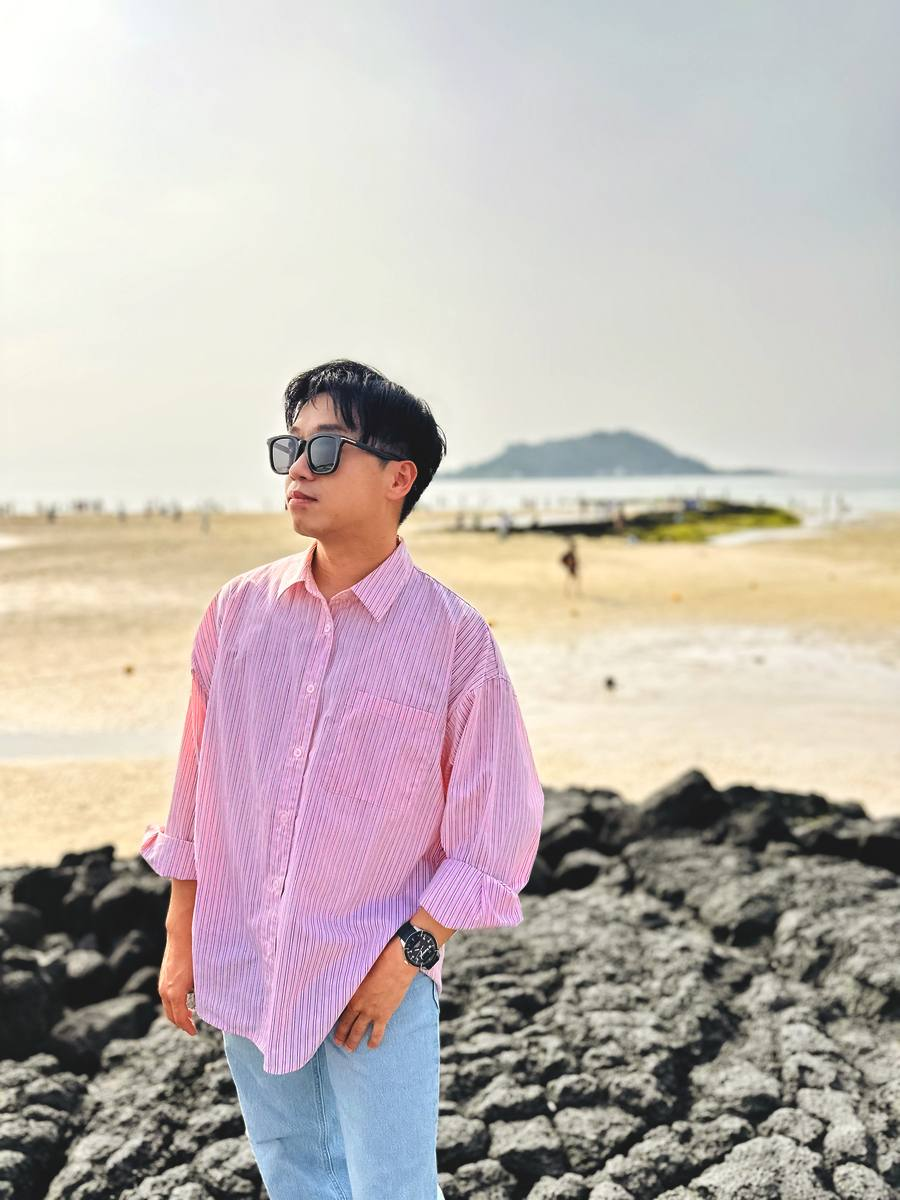
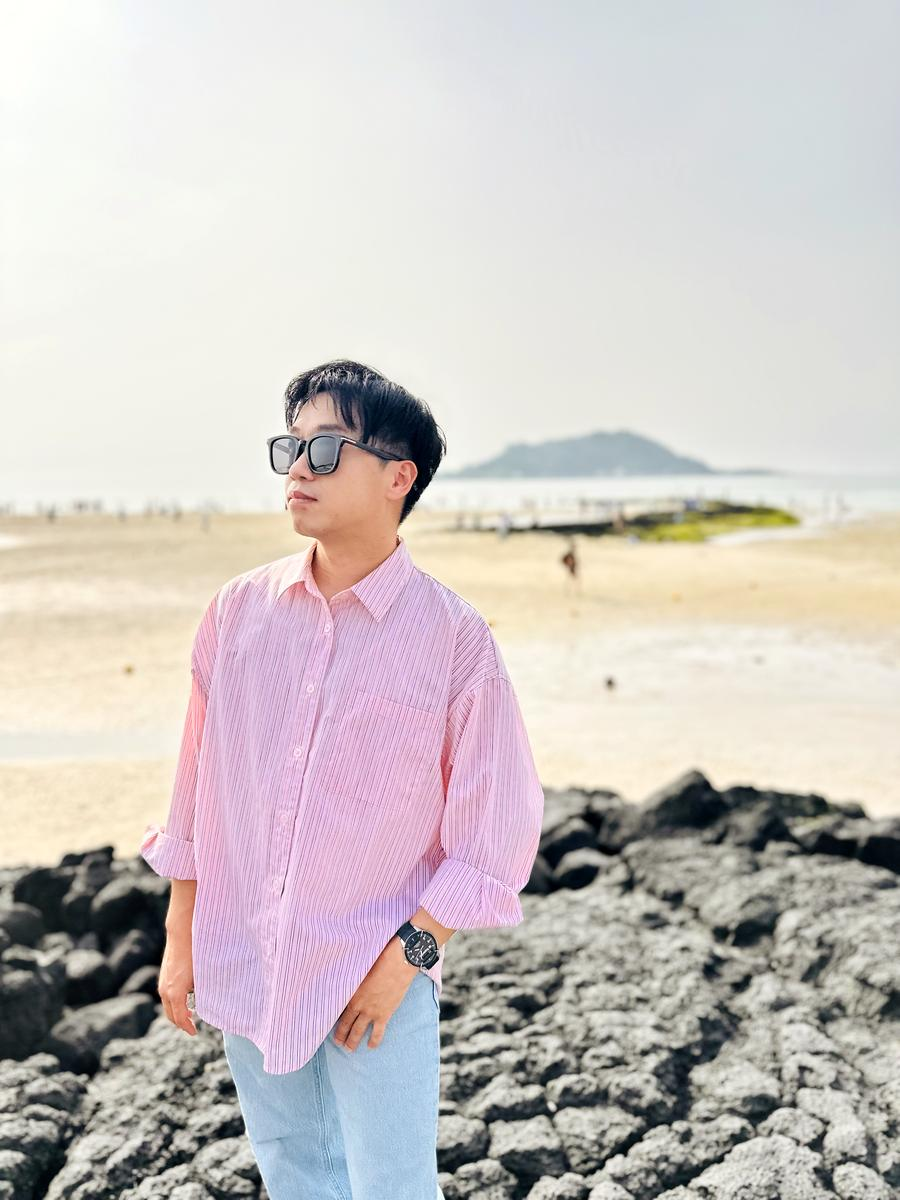
開場改為去背人像合成，調色加濃
去背
  量測參考站主視覺的背景：左上標準差 0.77、右上 0.67、左下 1.22。
  低於 1.3 等同純色；真實棚拍背景會有雜訊與光線衰減，標準差通常 3–15。
  它是去背後合成在暖色底上的，照片沒有攝影背景，才不會與頁面打架。

  以 rembg 的 u2net_human_seg 去背棚拍形象照，
  完全透明 73.1%、半透明 2.2%（邊緣羽化）、主體 24.8%。
  輸出 WebP 61 KB，另附 PNG 備援。

  開場改為左文右人：人像合成於暖色徑向漸層，姓名壓在左下。
  去背後沒有裁切問題，任何螢幕比例都不會切到頭或腳。

  參考站的姓名是白字壓淺米底，對比僅約 1.5:1。這裡改用墨色 #494949，
  對比 4.4:1，一樣柔和但讀得到。

調色太白
  根因是早期版本強推中位亮度到 158。那是參考站白棚高調的結果，
  戶外照套上去必然發白，加上柔光疊加又抬一次高光。

  改為保留原檔曝光，只抬黑、收飽和、極輕柔光。
  三段強度預設寫進 tools/grade.py，站上用 B_中：
  黑點 16、白點 251、飽和 0.170、柔光 0.05、曝光 0.96。
  實測飽和度回到 0.112–0.193，先前為 0.045–0.120。

UCI 會場照回到關於頁側記的橫幅位置。

Changed region(s): [[0.0, 0.2775, 1.0, 1.0], [0.6533, 0.555, 0.6844, 0.5858], [0.1244, 0.555, 0.1556, 0.5858]]

diff --git a/assets/style.css b/assets/style.css
@@ -124,52 +124,47 @@ body.menu-open .menu-list a:nth-child(7){transition-delay:.46s}
 .menu-side a:hover{color:var(--ink)}
 @media (max-width:760px){.menu-in{grid-template-columns:1fr}.menu-side{text-align:left;margin-top:2rem}}
 
-/* ---------- 全幅開場：單張橫幅，姓名壓在左下 ---------- */
-.hero{position:relative;min-height:100svh;overflow:hidden;background:#2E3033}
-.hero-img{
-  position:absolute;inset:0;width:100%;height:100%;
-  object-fit:cover;object-position:64% 44%;
+/* ---------- 全幅開場：去背人像合成於暖色底 ---------- */
+/* 參考站的主視覺量測後背景標準差僅 0.67–1.22，等同純色，
+   是去背後合成的。照片沒有攝影背景，才不會與頁面打架。 */
+.hero{
+  position:relative;min-height:100svh;overflow:hidden;
+  background:
+    radial-gradient(120% 90% at 78% 18%, #EFE9E1 0%, #E4DCD2 46%, #DAD1C6 100%);
+  display:grid;grid-template-columns:1fr minmax(0,46%);align-items:end;
 }
-/* 由左往右淡出的暗色遮罩。左側各區亮度 126–178、標準差 51–75，
-   沒有一塊均勻，沒有遮罩白字會斷續。加上後白字對比 5.0–7.1:1。 */
-.hero::after{
-  content:"";position:absolute;inset:0;pointer-events:none;
-  background:linear-gradient(100deg,
-    rgba(26,28,31,.62) 0%, rgba(26,28,31,.40) 34%,
-    rgba(26,28,31,.12) 62%, rgba(26,28,31,0) 88%);
+.hero-figure{
+  grid-column:2;justify-self:center;align-self:end;
+  height:min(88svh,1000px);display:flex;align-items:flex-end;
 }
+.hero-figure img{height:100%;width:auto;max-width:100%;object-fit:contain;object-position:bottom}
 .hero-inner{
-  position:relative;z-index:2;min-height:100svh;display:flex;flex-direction:column;
-  justify-content:flex-end;padding:0 var(--pad) clamp(4rem,14vh,8rem);
-  max-width:var(--maxw);margin:0 auto;
+  grid-column:1;grid-row:1;z-index:2;align-self:end;
+  padding:0 clamp(1.2rem,3vw,2rem) clamp(4.5rem,16vh,9rem) var(--pad);
 }
 .hero-name{
-  font-family:var(--f-display);font-size:clamp(2.1rem,6vw,4.2rem);font-weight:400;
-  letter-spacing:.26em;line-height:1.25;margin:0;text-transform:uppercase;color:#fff;
+  font-family:var(--f-display);font-size:clamp(1.9rem,5.4vw,3.8rem);font-weight:400;
+  letter-spacing:.26em;line-height:1.25;margin:0;text-transform:uppercase;color:var(--ink);
 }
-.hero-zh{font-size:clamp(1rem,2.2vw,1.45rem);letter-spacing:.5em;color:rgba(255,255,255,.94);margin-top:1.1rem}
+.hero-zh{font-size:clamp(1rem,2.1vw,1.4rem);letter-spacing:.5em;color:var(--ink);margin-top:1rem}
 .hero-role{
-  font-size:12px;letter-spacing:.26em;color:rgba(255,255,255,.78);margin-top:2rem;
+  font-size:12px;letter-spacing:.24em;color:var(--ink-muted);margin-top:1.9rem;
   text-transform:uppercase;line-height:2.4;
 }
-.hero-cap{
-  position:absolute;right:var(--pad);bottom:clamp(1.4rem,4vh,2.4rem);z-index:2;
-  font-family:var(--f-display);font-size:10px;letter-spacing:.24em;
-  color:rgba(255,255,255,.62);text-transform:uppercase;text-align:right;
-}
 .hero-scroll{
-  position:absolute;left:var(--pad);bottom:clamp(1.4rem,4vh,2.4rem);transform:none;z-index:3;
-  font-size:10px;letter-spacing:.3em;color:rgba(255,255,255,.7);text-transform:uppercase;
+  position:absolute;left:var(--pad);bottom:clamp(1.4rem,4vh,2.4rem);z-index:3;
+  font-size:10px;letter-spacing:.3em;color:var(--ink-muted);text-transform:uppercase;
   display:flex;align-items:center;gap:.9rem;
 }
-.hero-scroll::after{content:"";width:46px;height:1px;background:rgba(255,255,255,.55);
+.hero-scroll::after{content:"";width:46px;height:1px;background:var(--ink-muted);opacity:.6;
   animation:sweep 2.6s cubic-bezier(.6,0,.2,1) infinite}
 @keyframes sweep{0%{transform:scaleX(0);transform-origin:left}45%{transform:scaleX(1);transform-origin:left}
                  55%{transform:scaleX(1);transform-origin:right}100%{transform:scaleX(0);transform-origin:right}}
-@media (max-width:760px){
-  .hero-img{object-position:66% 42%}
-  .hero-inner{padding-bottom:clamp(5rem,18vh,7rem)}
-  .hero-cap{display:none}
+@media (max-width:820px){
+  .hero{grid-template-columns:1fr;align-items:end;min-height:100svh}
+  .hero-figure{grid-column:1;grid-row:1;height:min(62svh,640px);justify-self:end;opacity:.92}
+  .hero-inner{grid-row:1;padding-bottom:clamp(5rem,17vh,8rem)}
+  .hero-name{font-size:clamp(1.8rem,9vw,2.6rem)}
 }
 
 /* 關於頁的側身形象照 */

diff --git a/about.html b/about.html
@@ -120,12 +120,16 @@
 <section>
   <div class="wrap">
     <div class="sec-head rise"><h2>Gallery<span class="zh">側記</span></h2></div>
+    <figure class="gallery-lead rise">
+      <img src="assets/gallery-lead.jpg" alt="ISLS 2026 年會會場，加州大學爾灣分校" width="1500" height="1125" loading="lazy">
+      <figcaption>ISLS Annual Meeting 2026 · UC Irvine</figcaption>
+    </figure>
     <div class="gallery rise">
       <figure><img src="assets/gallery-1.jpg" alt="海邊" width="900" height="1200" loading="lazy"></figure>
       <figure><img src="assets/gallery-2.jpg" alt="遮陽傘下" width="900" height="1200" loading="lazy"></figure>
       <figure><img src="assets/gallery-3.jpg" alt="街角" width="900" height="1200" loading="lazy"></figure>
     </div>
-    <p class="gallery-note rise">研究以外的時間。走走看看，換個地方想事情。</p>
+    <p class="gallery-note rise">上圖是 ISLS 年會的會場。下面三張是研究以外的時間。</p>
   </div>
 </section>
 

diff --git a/index.html b/index.html
@@ -41,7 +41,12 @@
 
 <main>
 <section class="hero">
-  <img class="hero-img" src="assets/hero.jpg" alt="陳奕安於 ISLS 2026 年會會場，加州大學爾灣分校" width="2000" height="1500">
+  <div class="hero-figure">
+    <picture>
+      <source srcset="assets/hero-cutout.webp" type="image/webp">
+      <img src="assets/hero-cutout.png" alt="陳奕安" width="515" height="1150">
+    </picture>
+  </div>
   <div class="hero-inner">
     <h1 class="hero-name">Chen Yi-An</h1>
     <p class="hero-zh">陳奕安</p>
@@ -52,7 +57,6 @@
     </p>
   </div>
   <div class="hero-scroll">Scroll</div>
-  <div class="hero-cap">ISLS Annual Meeting 2026<br>UC Irvine</div>
 </section>
 
 <section>

diff --git a/tools/grade.py b/tools/grade.py
@@ -1,112 +1,78 @@
 #!/usr/bin/env python3
 # -*- coding: utf-8 -*-
 """
-日系霧面高調調色。
+日式調色，可調強度。
 
-參數由 saitokyoko.jp 三張照片實測反推：
-  黑點（1% 亮度）51–75、白點（99%）約 246、平均飽和度 0.078–0.100、中間調偏亮。
-
-固定一組數值套在起點差很多的原檔上會失準，所以每張先正規化再對齊目標：
-  1 自動色階：把 0.5% 與 99.5% 拉到兩端，讓所有原檔從同一基準出發
-  2 以 gamma 把中位亮度推到目標
-  3 抬黑壓白到 52 / 247
-  4 用二分法解出飽和倍率，讓平均飽和度落在 0.090
-  5 中間調微暖、極輕柔光
+與前一版的差別：不再強迫中位亮度對齊固定值。
+參考站那些照片本來就是白棚高調，把戶外照推到同樣的亮度只會發白。
+這版保留原檔的曝光，只做三件事：抬一點黑、收一點飽和、極輕的柔光。
 """
-import sys, os
 import numpy as np
 from PIL import Image, ImageFilter
 
-T_BLACK  = 52 / 255.0
-T_WHITE  = 247 / 255.0
-T_MEDIAN = 0.70      # 目標中位亮度（0–1），對應 179/255
-T_SAT    = 0.090     # 目標平均飽和度
-WARM     = 0.020
-BLOOM    = 0.10
 LUMW = np.array([0.2126, 0.7152, 0.0722])
+
+PRESETS = {
+    # 名稱:  黑點  白點  飽和   柔光  曝光微調
+    'A_弱': dict(black=10, white=252, sat=0.200, bloom=0.03, lift=1.00),
+    'B_中': dict(black=16, white=251, sat=0.170, bloom=0.05, lift=0.96),
+    'C_強': dict(black=24, white=250, sat=0.145, bloom=0.08, lift=0.92),
+}
 
 def sat_mean(a):
     x = np.clip(a, 0, 1) * 255
     mx, mn = x.max(2), x.min(2)
     return float(np.where(mx > 0, (mx - mn) / np.maximum(mx, 1), 0).mean())
 
-def grade(im):
+def grade(im, black, white, sat, bloom, lift):
     a = np.asarray(im.convert('RGB')).astype(np.float64) / 255.0
+    tb, tw = black / 255.0, white / 255.0
 
-    # 1) 自動色階（以亮度為準，避免破壞色相）
-    lum = a @ LUMW
-    lo, hi = np.percentile(lum, 0.5), np.percentile(lum, 99.5)
-    if hi - lo > 1e-4:
-        a = (a - lo) / (hi - lo)
-    a = np.clip(a, 0, 1)
+    # 1) 只做溫和的曝光微調，不強推中位亮度
+    if abs(lift - 1.0) > 1e-3:
+        a = np.clip(a, 0, 1) ** lift
 
-    # 2) 以 gamma 把中位亮度推到目標
-    med = float(np.median(a @ LUMW))
-    if 1e-3 < med < 0.999:
-        g = np.log(T_MEDIAN) / np.log(med)
-        g = float(np.clip(g, 0.45, 1.6))
-        a = a ** g
-
-    # 3) 錨定黑白點：把 1% 與 99% 直接映到目標值，不論原檔起點為何
+    # 2) 錨定黑白點
     lum = a @ LUMW
     p1, p99 = np.percentile(lum, 1), np.percentile(lum, 99)
     if p99 - p1 > 1e-4:
-        k = (T_WHITE - T_BLACK) / (p99 - p1)
-        a = T_BLACK + (a - p1) * k
+        a = tb + (a - p1) * (tw - tb) / (p99 - p1)
     a = np.clip(a, 0, 1)
 
-    # 4) 解飽和倍率。抬黑之後才量，且只降不升：
-    #    這是一組減飽和配方，硬把低彩度的棚拍推上去只會讓膚色失真。
+    # 3) 飽和度：只降不升
     lum = a @ LUMW
     dev = a - lum[..., None]
-    if sat_mean(a) > T_SAT:
-        s0, s1 = 0.0, 1.0
+    if sat_mean(a) > sat:
+        lo, hi = 0.0, 1.0
         for _ in range(24):
-            s = (s0 + s1) / 2
-            if sat_mean(np.clip(lum[..., None] + dev * s, 0, 1)) > T_SAT: s1 = s
-            else: s0 = s
-        s = (s0 + s1) / 2
+            m = (lo + hi) / 2
+            if sat_mean(np.clip(lum[..., None] + dev * m, 0, 1)) > sat: hi = m
+            else: lo = m
+        m = (lo + hi) / 2
     else:
-        s = 1.0
-    a = np.clip(lum[..., None] + dev * s, 0, 1)
+        m = 1.0
+    a = np.clip(lum[..., None] + dev * m, 0, 1)
 
-    # 5) 中間調微暖
-    lum2 = a @ LUMW
-    w = np.exp(-((lum2 - 0.58) ** 2) / (2 * 0.24 ** 2))[..., None]
-    a = np.clip(a + w * np.array([WARM, WARM * 0.15, -WARM]), 0, 1)
+    # 4) 中間調微暖
+    l2 = a @ LUMW
+    w = np.exp(-((l2 - 0.55) ** 2) / (2 * 0.24 ** 2))[..., None]
+    a = np.clip(a + w * np.array([0.016, 0.002, -0.016]), 0, 1)
 
     out = Image.fromarray((a * 255).round().astype(np.uint8))
 
-    # 6) 極輕柔光，只在亮處作用
-    blur = out.filter(ImageFilter.GaussianBlur(radius=max(2, out.size[0] // 260)))
-    o = np.asarray(out).astype(np.float64); b = np.asarray(blur).astype(np.float64)
-    screen = 255 - (255 - o) * (255 - b) / 255.0
-    m = ((o @ LUMW) / 255.0)[..., None] ** 2
-    o = o * (1 - BLOOM * m) + screen * (BLOOM * m)
-    return Image.fromarray(np.clip(o, 0, 255).round().astype(np.uint8)), s
+    # 5) 柔光，只在亮處
+    if bloom > 0:
+        blur = out.filter(ImageFilter.GaussianBlur(radius=max(2, out.size[0] // 300)))
+        o = np.asarray(out).astype(np.float64); b = np.asarray(blur).astype(np.float64)
+        screen = 255 - (255 - o) * (255 - b) / 255.0
+        msk = ((o @ LUMW) / 255.0)[..., None] ** 2
+        o = o * (1 - bloom * msk) + screen * (bloom * msk)
+        out = Image.fromarray(np.clip(o, 0, 255).round().astype(np.uint8))
+    return out
 
-def stats(p):
-    a = np.asarray(Image.open(p).convert('RGB')).astype(float)
+def stats(im):
+    a = np.asarray(im.convert('RGB')).astype(float)
     lum = a @ LUMW
     mx, mn = a.max(2), a.min(2)
-    sat = np.where(mx > 0, (mx - mn) / np.maximum(mx, 1), 0)
-    return np.percentile(lum,1), np.percentile(lum,50), np.percentile(lum,99), sat.mean()
-
-if __name__ == '__main__':
-    src_dir, dst_dir = sys.argv[1], sys.argv[2]
-    jobs = [('形象照.JPG','portrait.jpg',900), ('IMG_9283.jpeg','gallery-lead.jpg',1600),
-            ('IMG_0305.jpeg','gallery-1.jpg',900), ('IMG_0333.jpeg','gallery-2.jpg',900),
-            ('IMG_0174.JPG','gallery-3.jpg',900)]
-    print('目標　黑點 52　中位 179　白點 247　飽和 0.090')
-    print(f'{"檔名":<18}{"黑點":>14}{"中位":>12}{"白點":>12}{"飽和":>10}{"倍率":>8}{"大小":>9}')
-    for src, dst, w in jobs:
-        sp, dp = os.path.join(src_dir, src), os.path.join(dst_dir, dst)
-        im = Image.open(sp).convert('RGB')
-        if im.size[0] > w:
-            im = im.resize((w, round(im.size[1] * w / im.size[0])), Image.LANCZOS)
-        b0, m0, w0, s0 = stats(sp)
-        g, sfac = grade(im)
-        g.save(dp, 'JPEG', quality=72, optimize=True, progressive=True)
-        b1, m1, w1, s1 = stats(dp)
-        print(f'{dst:<18}{b0:6.1f}→{b1:6.1f}{m0:6.1f}→{m1:5.1f}{w0:6.1f}→{w1:5.1f}'
-              f'{s0:5.3f}→{s1:5.3f}{sfac:8.2f}{os.path.getsize(dp)//1024:7d} KB')
+    s = np.where(mx > 0, (mx - mn) / np.maximum(mx, 1), 0)
+    return np.percentile(lum, 1), np.percentile(lum, 50), np.percentile(lum, 99), s.mean()

diff --git a/README.md b/README.md
@@ -38,30 +38,27 @@
 
 ## 照片
 
-- `hero.jpg`（2000×1500）首頁滿版開場，ISLS 2026 於 UC Irvine 的會場照。
-  人在右側、左邊開闊，姓名壓在左下，構圖比照參考站。
-- `portrait.jpg`（864×1184）棚拍形象照，置於關於頁自述區右側。
-- `gallery-1` 到 `gallery-3`（3:4 直式）關於頁末的側記，交錯排列。
+- `hero-cutout.webp`（61 KB，PNG 備援）首頁開場的去背人像，合成於暖色漸層底。
+  參考站的主視覺經量測，背景標準差僅 0.67–1.22，等同純色，是去背後合成的；
+  照片沒有攝影背景，就不會與頁面的底色打架。去背以 rembg 的 u2net_human_seg 完成。
+- `portrait.jpg` 棚拍形象照，置於關於頁自述區右側。
+- `gallery-lead.jpg` ISLS 2026 於 UC Irvine 的會場照，關於頁側記的橫幅。
+- `gallery-1` 到 `gallery-3` 側記的三張直式照，交錯排列。
 
 ## 照片調色
 
-站上所有人像都套同一組日系霧面高調，調色烘進檔案而非用 CSS 濾鏡。
-參數由 saitokyoko.jp 三張照片實測反推：黑點（1% 亮度）51–75、白點（99%）約 246、
-平均飽和度 0.078–0.100、中間調偏亮。
+`tools/grade.py` 內含三段強度預設，站上使用 `B_中`：
 
-`tools/grade.py` 是調色程式。每張先正規化再對齊目標，避免固定參數套在起點不同的原檔上失準：
+| | 黑點 | 白點 | 飽和 | 柔光 | 曝光 |
+|---|---|---|---|---|---|
+| A_弱 | 10 | 252 | 0.200 | 0.03 | 1.00 |
+| B_中 | 16 | 251 | 0.170 | 0.05 | 0.96 |
+| C_強 | 24 | 250 | 0.145 | 0.08 | 0.92 |
 
-1. 自動色階，把 0.5% 與 99.5% 拉到兩端
-2. 以 gamma 把中位亮度推到 158
-3. 錨定黑白點到 26 / 250
-4. 二分法解飽和倍率至 0.140，**只降不升**——低彩度的棚拍硬推只會讓膚色失真
-5. 中間調微暖、極輕柔光
+流程：溫和曝光微調 → 錨定黑白點 → 二分法解飽和倍率（只降不升）→ 中間調微暖 → 亮處柔光。
 
-重新調色：
-
-```bash
-python3 tools/grade.py <原檔資料夾> assets
-```
+**不強推中位亮度。** 早期版本把每張的中位亮度對齊參考站量到的 158，
+但那是它自己白棚高調的結果，套在戶外照上只會發白。這版保留原檔曝光。
 
 ## 本機預覽
 
